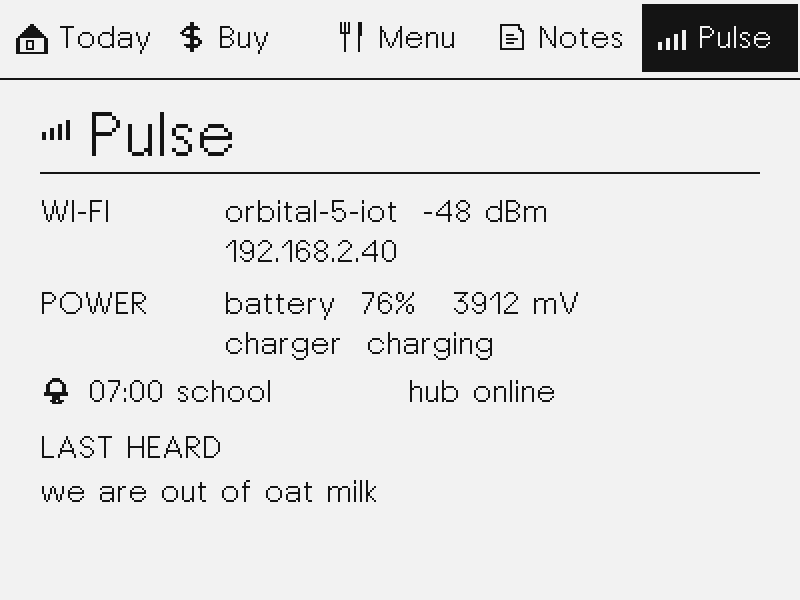
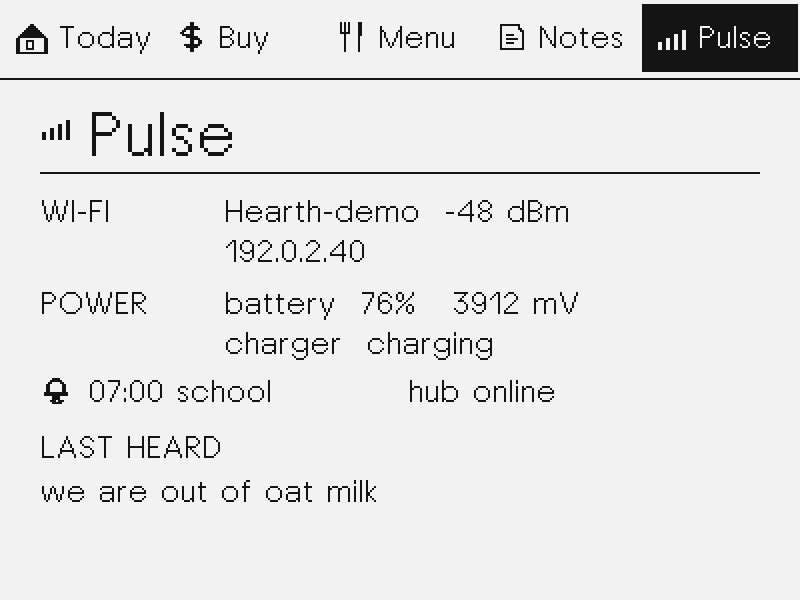
Configure Hermes installation and one-shots via env

Changed region(s): [[0.2812, 0.33, 0.7188, 0.45]]

diff --git a/hub/hermes.py b/hub/hermes.py
@@ -1,15 +1,10 @@
-"""Talk to the hearth Hermes profile on hermes-incus."""
+"""Call the dedicated Hearth Hermes profile locally or over SSH."""
 
 from __future__ import annotations
 
 import os
 import shlex
 import subprocess
-
-DEFAULT_SSH = os.environ.get("HEARTH_HERMES_SSH", "hermes-incus")
-DEFAULT_PROFILE = os.environ.get("HEARTH_HERMES_PROFILE", "hearth")
-DEFAULT_SESSION = os.environ.get("HEARTH_HERMES_SESSION", "family-kitchen")
-
 
 class HermesError(RuntimeError):
     pass
@@ -37,32 +32,63 @@ def file_utterance(
     source: str = "fridge",
     board_snapshot: dict | None = None,
     *,
-    ssh: str = DEFAULT_SSH,
-    timeout_s: float = 90.0,
+    method: str | None = None,
+    ssh: str | None = None,
+    command: str | None = None,
+    timeout_s: float | None = None,
 ) -> str:
     if not text.strip():
         return ""
+    host = ssh or os.environ.get("HEARTH_HERMES_SSH_HOST") or os.environ.get("HEARTH_HERMES_SSH") or ""
+    method = method or os.environ.get("HEARTH_HERMES_METHOD") or ("ssh" if host else "local")
+    if method not in ("local", "ssh"):
+        raise HermesError("HEARTH_HERMES_METHOD must be local or ssh")
+    if method == "ssh" and not host:
+        raise HermesError("HEARTH_HERMES_SSH_HOST is required for SSH")
+    command = command or os.environ.get("HEARTH_HERMES_COMMAND") or os.environ.get("HEARTH_HERMES_PROFILE") or "hearth"
+    try:
+        cli = shlex.split(command)
+    except ValueError as exc:
+        raise HermesError("HEARTH_HERMES_COMMAND has invalid quoting") from exc
+    if not cli:
+        raise HermesError("HEARTH_HERMES_COMMAND cannot be empty")
+    if timeout_s is None:
+        try:
+            timeout_s = float(os.environ.get("HEARTH_HERMES_TIMEOUT_S") or "90")
+        except ValueError as exc:
+            raise HermesError("HEARTH_HERMES_TIMEOUT_S must be a number") from exc
+    if timeout_s <= 5:
+        raise HermesError("HEARTH_HERMES_TIMEOUT_S must be above 5 seconds")
     run_id = str((board_snapshot or {}).get("meta", {}).get("file_run_id") or "")
     remote_timeout_s = max(1, int(timeout_s) - 5)
-    remote = (
-        'export PATH="$HOME/.local/bin:$PATH"; '
-        f"export HEARTH_RUN_ID={shlex.quote(run_id)}; "
-        f"timeout --signal=TERM --kill-after=5s {remote_timeout_s}s "
-        f"{DEFAULT_PROFILE} --yolo --skills hearth-board "
-        f"-z {shlex.quote(_prompt(text, source))}"
-    )
+    cli.extend(("--yolo", "--skills", "hearth-board", "-z", _prompt(text, source)))
+    timed = ["timeout", "--signal=TERM", "--kill-after=5s", f"{remote_timeout_s}s", *cli]
+    if method == "ssh":
+        remote = (
+            'export PATH="$HOME/.local/bin:$PATH"; '
+            f"export HEARTH_RUN_ID={shlex.quote(run_id)}; "
+            + shlex.join(timed)
+        )
+        argv = ["ssh", "-o", "BatchMode=yes", "-o", "ConnectTimeout=8", host, remote]
+        env = None
+    else:
+        argv = timed
+        env = os.environ.copy()
+        env["HEARTH_RUN_ID"] = run_id
+        env["PATH"] = str(os.path.expanduser("~/.local/bin")) + os.pathsep + env.get("PATH", "")
     try:
         completed = subprocess.run(
-            ["ssh", "-o", "BatchMode=yes", "-o", "ConnectTimeout=8", ssh, remote],
+            argv,
             check=False,
             capture_output=True,
             text=True,
             timeout=timeout_s,
+            env=env,
         )
     except subprocess.TimeoutExpired as exc:
         raise HermesError(f"hermes profile timed out after {timeout_s:g}s") from exc
     except OSError as exc:
-        raise HermesError(f"hermes ssh unavailable: {type(exc).__name__}") from exc
+        raise HermesError(f"hermes command unavailable: {type(exc).__name__}") from exc
     if completed.returncode in (124, 137):
         raise HermesError(f"hermes profile timed out after {remote_timeout_s}s")
     if completed.returncode != 0:

diff --git a/tests/test_hermes.py b/tests/test_hermes.py
@@ -2,6 +2,7 @@
 
 from __future__ import annotations
 
+import os
 import subprocess
 import unittest
 from unittest.mock import patch
@@ -13,8 +14,10 @@ class HermesInvocationTests(unittest.TestCase):
     def test_remote_prompt_reads_board_with_tool(self) -> None:
         snapshot = {"notes": [{"text": "private household note"}], "meta": {"file_run_id": "trial"}}
         with patch("hub.hermes.subprocess.run", return_value=subprocess.CompletedProcess([], 0, "Filed.\n", "")) as run:
-            file_utterance("30 second timer", board_snapshot=snapshot)
+            file_utterance("30 second timer", board_snapshot=snapshot,
+                           method="ssh", ssh="hermes.example", command="hearth")
         remote = run.call_args.args[0][-1]
+        self.assertEqual(run.call_args.args[0][-2], "hermes.example")
         self.assertIn("hearth_get_board", remote)
         self.assertIn("timeout --signal=TERM", remote)
         self.assertNotIn("private household note", remote)
@@ -24,9 +27,41 @@ class HermesInvocationTests(unittest.TestCase):
         expired = subprocess.TimeoutExpired(["ssh", "private household note"], 90)
         with patch("hub.hermes.subprocess.run", side_effect=expired):
             with self.assertRaises(HermesError) as raised:
-                file_utterance("30 second timer", board_snapshot=snapshot)
+                file_utterance("30 second timer", board_snapshot=snapshot,
+                               method="ssh", ssh="hermes.example", command="hearth")
         self.assertEqual(str(raised.exception), "hermes profile timed out after 90s")
         self.assertNotIn("private household note", str(raised.exception))
+
+    def test_local_method_uses_configured_profile_command_and_run_id(self) -> None:
+        with patch("hub.hermes.subprocess.run", return_value=subprocess.CompletedProcess([], 0, "Filed.\n", "")) as run:
+            file_utterance("30 second alarm", board_snapshot={"meta": {"file_run_id": "local-trial"}},
+                           method="local", command="hermes -p hearth")
+        argv = run.call_args.args[0]
+        self.assertEqual(argv[:4], ["timeout", "--signal=TERM", "--kill-after=5s", "85s"])
+        self.assertEqual(argv[4:7], ["hermes", "-p", "hearth"])
+        self.assertEqual(run.call_args.kwargs["env"]["HEARTH_RUN_ID"], "local-trial")
+        self.assertIn("hearth_set_timer", argv[-1])
+
+    def test_ssh_method_requires_a_host(self) -> None:
+        with patch.dict(os.environ, {"HEARTH_HERMES_SSH_HOST": "", "HEARTH_HERMES_SSH": ""}):
+            with self.assertRaisesRegex(HermesError, "HEARTH_HERMES_SSH_HOST"):
+                file_utterance("30 second timer", method="ssh", ssh="", command="hearth")
+
+    def test_invalid_configured_command_reports_clear_error(self) -> None:
+        with self.assertRaisesRegex(HermesError, "invalid quoting"):
+            file_utterance("30 second timer", method="local", command="'hearth")
+
+    def test_env_selects_method_command_and_timeout(self) -> None:
+        config = {"HEARTH_HERMES_METHOD": "local",
+                  "HEARTH_HERMES_COMMAND": "hermes -p kitchen",
+                  "HEARTH_HERMES_TIMEOUT_S": "45"}
+        with patch.dict(os.environ, config):
+            with patch("hub.hermes.subprocess.run", return_value=subprocess.CompletedProcess([], 0, "Filed.\n", "")) as run:
+                file_utterance("30 second timer")
+        argv = run.call_args.args[0]
+        self.assertEqual(argv[:7], ["timeout", "--signal=TERM", "--kill-after=5s", "40s",
+                                    "hermes", "-p", "kitchen"])
+        self.assertEqual(run.call_args.kwargs["timeout"], 45.0)
 
 
 if __name__ == "__main__":

diff --git a/tests/test_install_profile.py b/tests/test_install_profile.py
@@ -1,0 +1,71 @@
+"""Profile installer configures a local target and previews SSH without connecting."""
+
+from __future__ import annotations
+
+import os
+import subprocess
+import tempfile
+import unittest
+from pathlib import Path
+
+ROOT = Path(__file__).resolve().parent.parent
+INSTALLER = ROOT / "tools/install_hearth_profile.sh"
+
+
+class ProfileInstallerTests(unittest.TestCase):
+    def test_local_install_copies_profile_and_sets_hub_url(self) -> None:
+        with tempfile.TemporaryDirectory() as temp:
+            root = Path(temp)
+            profile = root / "profile"
+            cli = root / "hermes-test"
+            cli.write_text(
+                "#!/bin/sh\n"
+                "if [ \"$1 $2\" = 'mcp list' ]; then exit 0; fi\n"
+                "if [ \"$1 $2\" = 'mcp add' ]; then\n"
+                "  profile_dir=$(dirname \"$(dirname \"$5\")\")\n"
+                "  printf 'mcp_servers:\\n  hearth-board:\\n    command: %s\\n' \"$5\" > \"$profile_dir/config.yaml\"\n"
+                "  exit 0\n"
+                "fi\n"
+                "exit 1\n"
+            )
+            cli.chmod(0o755)
+            env_file = root / ".env"
+            env_file.write_text(
+                f"HEARTH_HUB_URL=http://hub.example:8790\n"
+                f"HEARTH_HERMES_METHOD=local\n"
+                f"HEARTH_HERMES_PROFILE_DIR={profile}\n"
+                f"HEARTH_HERMES_COMMAND={cli}\n"
+            )
+            env = os.environ.copy()
+            env["HEARTH_ENV_FILE"] = str(env_file)
+            result = subprocess.run([str(INSTALLER)], env=env, capture_output=True, text=True)
+            self.assertEqual(result.returncode, 0, result.stderr)
+            self.assertNotIn("hub.example", result.stdout)
+            self.assertNotIn(str(profile), result.stdout)
+            self.assertTrue((profile / "SOUL.md").exists())
+            self.assertTrue((profile / "skills/productivity/hearth-board/SKILL.md").exists())
+            self.assertTrue((profile / "tools/hearth_mcp.py").exists())
+            self.assertIn("HEARTH_HUB_URL=http://hub.example:8790", (profile / ".env").read_text())
+            self.assertIn("HEARTH_RUN_ID", (profile / "config.yaml").read_text())
+
+    def test_ssh_dry_run_needs_no_connection(self) -> None:
+        with tempfile.TemporaryDirectory() as temp:
+            env_file = Path(temp) / ".env"
+            env_file.write_text(
+                "HEARTH_HUB_URL=http://hub.example:8790\n"
+                "HEARTH_HERMES_METHOD=ssh\n"
+                "HEARTH_HERMES_SSH_HOST=hermes.example\n"
+                "HEARTH_HERMES_COMMAND='hermes -p hearth'\n"
+            )
+            env = os.environ.copy()
+            env["HEARTH_ENV_FILE"] = str(env_file)
+            result = subprocess.run([str(INSTALLER), "--dry-run"], env=env,
+                                    capture_output=True, text=True)
+            self.assertEqual(result.returncode, 0, result.stderr)
+            self.assertIn("method: ssh (hermes.example)", result.stdout)
+            self.assertIn("Hermes command: hermes -p hearth", result.stdout)
+            self.assertIn("<target-home>/.hermes/profiles/hearth", result.stdout)
+
+
+if __name__ == "__main__":
+    unittest.main()

diff --git a/sim/sim_main.cc b/sim/sim_main.cc
@@ -130,10 +130,10 @@ HearthState MakeToday() {
     s.charging = true;
     s.wifi_connected = true;
     s.rssi = -48;
-    std::snprintf(s.ssid, sizeof(s.ssid), "orbital-5-iot");
-    std::snprintf(s.ip, sizeof(s.ip), "192.168.2.40");
-    std::snprintf(s.wifi_status, sizeof(s.wifi_status), "orbital-5-iot  -48 dBm");
-    std::snprintf(s.hub, sizeof(s.hub), "http://192.168.2.89:8790");
+    std::snprintf(s.ssid, sizeof(s.ssid), "Hearth-demo");
+    std::snprintf(s.ip, sizeof(s.ip), "192.0.2.40");
+    std::snprintf(s.wifi_status, sizeof(s.wifi_status), "Hearth-demo  -48 dBm");
+    std::snprintf(s.hub, sizeof(s.hub), "http://hub.local:8790");
     std::snprintf(s.transcript, sizeof(s.transcript),
                   "we are out of oat milk");
     std::snprintf(s.note, sizeof(s.note), "HEARTH v0.9.1-hearth");

diff --git a/hermes-profile/hearth_mcp.py b/hermes-profile/hearth_mcp.py
@@ -13,7 +13,7 @@ import os
 import sys
 from urllib.request import Request, urlopen
 
-HUB = os.environ.get("HEARTH_HUB_URL", "http://192.168.2.89:8790").rstrip("/")
+HUB = os.environ.get("HEARTH_HUB_URL", "").rstrip("/")
 RUN_ID = os.environ.get("HEARTH_RUN_ID", "")
 
 
@@ -90,6 +90,8 @@ OPS = {
 
 
 def request(path: str, payload: dict | None = None) -> dict:
+    if not HUB:
+        raise ValueError("HEARTH_HUB_URL is required for the Hearth MCP bridge")
     body = json.dumps(payload).encode() if payload is not None else None
     req = Request(
         HUB + path, data=body,

diff --git a/hermes-profile/README.md b/hermes-profile/README.md
@@ -1,17 +1,22 @@
 # Hearth Hermes profile
 
-Copy onto the Incus VM after `hermes profile create hearth`.
+Install onto the hub machine or an SSH host after creating a `hearth` profile.
+Set `HEARTH_HERMES_METHOD`, `HEARTH_HERMES_SSH_HOST` (for SSH),
+`HEARTH_HERMES_PROFILE_DIR`, `HEARTH_HERMES_COMMAND`, and `HEARTH_HUB_URL`
+in the gitignored `.env`.
 
 ```bash
+./tools/install_hearth_profile.sh --dry-run
 ./tools/install_hearth_profile.sh
 ```
 
-That writes:
+By default, that writes under the target user's home directory:
 
 - `~/.hermes/profiles/hearth/SOUL.md`
-- `~/.hermes/profiles/hearth/skills/hearth-board/SKILL.md`
+- `~/.hermes/profiles/hearth/skills/productivity/hearth-board/SKILL.md`
 
-The profile alias is `hearth`. The hub files utterances with:
+`HEARTH_HERMES_COMMAND` must select the dedicated profile. For example, an
+alias named `hearth` produces this one-shot call:
 
 ```bash
 hearth --yolo --skills hearth-board -z '…'
@@ -19,6 +24,7 @@ hearth --yolo --skills hearth-board -z '…'
 
 Do not make `hearth` the sticky default profile. The kitchen board lives on
 the hub (`~/.local/share/hearth/board.json` on the host), not in Hermes memory.
-The NOTE4 never calls the Hermes HTTP API; the hub SSHes a oneshot after STT.
+The NOTE4 never calls the Hermes HTTP API; the hub runs a local or SSH one-shot
+after STT.
 The installer disables bundled coding skills in `config.yaml` without
 deleting them, and writes `HEARTH_HUB_URL` into the profile `.env`.

diff --git a/docs/BOARD.md b/docs/BOARD.md
@@ -61,20 +61,22 @@ Weather is a hub Open-Meteo one-liner plus a `wx` token (`sun` / `cloud` /
 
 ## Hermes
 
-The NOTE4 talks only to the hub. Hermes stays on `hermes-incus`. The hub handles
+The NOTE4 talks only to the hub. Hermes can run locally or on an SSH host. The hub handles
 STT intake, weather, storage, the poster, and verified operation results.
 Hermes receives every transcript and the current board, then calls the native
 Hearth MCP tools agentically. A small stdio MCP bridge on the Hermes profile
 exposes the board API as 12 named tools.
 
-Profile alias `hearth` on `hermes-incus`. Install SOUL, skill, and MCP tools:
+Install the dedicated `hearth` SOUL, skill, and MCP tools with the method and
+profile location configured in `.env`:
 
 ```bash
+./tools/install_hearth_profile.sh --dry-run
 ./tools/install_hearth_profile.sh
 ```
 
-Every phrase uses a fresh oneshot (`hearth --yolo --skills
-hearth-board -z '…'`). The installer pins only this profile to
+Every phrase uses a fresh one-shot with the configured Hermes command (for
+example, `hearth --yolo --skills hearth-board -z '…'`). The installer pins only this profile to
 `openai-codex / gpt-5.6-luna` with reasoning disabled; default and sibling
 Hermes profiles are untouched. `POST /v1/utterance` returns `request_id` and
 queue depth immediately. The device keeps the UI live and polls `/v1/poster`

diff --git a/README.md b/README.md
@@ -25,16 +25,19 @@ the device.
 ## Flash and use
 
 You need a **NOTE4 Developer Kit** (ESP32-S3 N16R8, not NOTE4C), ESP-IDF v6.1,
-a reachable Hermes host named `hermes-incus`, and a local speech-to-text service.
+Hermes on the hub machine or an SSH host, and a reachable speech-to-text service.
 The hub and NOTE4 must share a network.
 
-1. Copy `.env.example` to `.env` and set the STT URL, Hermes host, hub LAN URL,
-   and weather coordinates. Copy
+1. Copy `.env.example` to `.env` and set the STT URL, hub LAN URL, and weather
+   coordinates. Choose `HEARTH_HERMES_METHOD=local` or `ssh`; for SSH, set
+   `HEARTH_HERMES_SSH_HOST`. The profile directory and command used to select
+   the profile are also configurable there. Copy
    `firmware/sdkconfig.defaults.local.example` to
    `firmware/sdkconfig.defaults.local`, then set Wi-Fi and the same hub LAN URL.
-2. Install the dedicated Hermes profile and start the hub:
+2. Preview, install the dedicated Hermes profile, and start the hub:
 
    ```bash
+   ./tools/install_hearth_profile.sh --dry-run
    ./tools/install_hearth_profile.sh
    python3 -m hub --host 0.0.0.0 --port 8790
    ```

diff --git a/docs/PLAN.md b/docs/PLAN.md
@@ -9,7 +9,7 @@ This document is the product and architecture plan. Build only after it is agree
 - Device: ZECTRIX NOTE4 (monochrome), ESP32-S3 N16R8, 4.2-inch 400 × 300 E Ink (SSD2683), 16 MB flash, 8 MB PSRAM.
 - Peripherals: front BOOT / Confirm (GPIO0), side Up (GPIO39), side Down / Power (GPIO18), ES8311 mic + speaker, NFC, PCF8563 RTC, 2000+ mAh battery, magnetic back, USB-C native USB (`/dev/ttyACM0` on this machine).
 - Connected as: Espressif USB JTAG/serial, serial `28:84:85:32:07:E0`.
-- Host: this machine. ESP-IDF v6.1 via EIM. Local STT/TTS already at `http://192.168.2.89:8080/v1` (qwen3-asr / kokoro). Hermes Agent installed at `~/.hermes`.
+- Host: an ESP-IDF v6.1 machine with reachable STT/TTS services and a local or SSH Hermes profile.
 
 Do not flash NOTE4C images. Back up the full 16 MiB factory flash before the first custom image.
 

diff --git a/docs/VOICE.md b/docs/VOICE.md
@@ -26,7 +26,7 @@ Wi-Fi STA uses Kconfig defaults, then NVS. Console on USB-Serial/JTAG:
 hearth> hearth-show
 hearth> hearth-set ssid <name>
 hearth> hearth-set pass <password>
-hearth> hearth-set hub http://192.168.2.89:8790
+hearth> hearth-set hub http://192.0.2.10:8790
 hearth> hearth-save
 hearth> hearth-reboot
 ```
